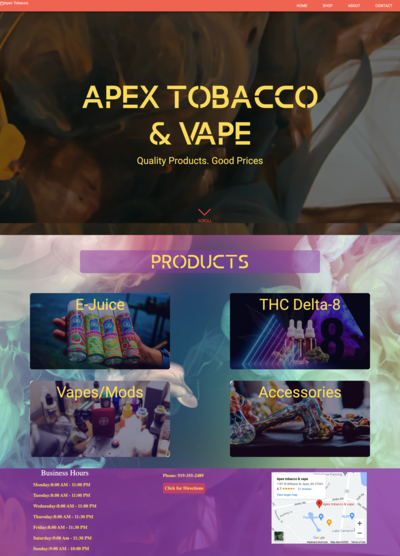
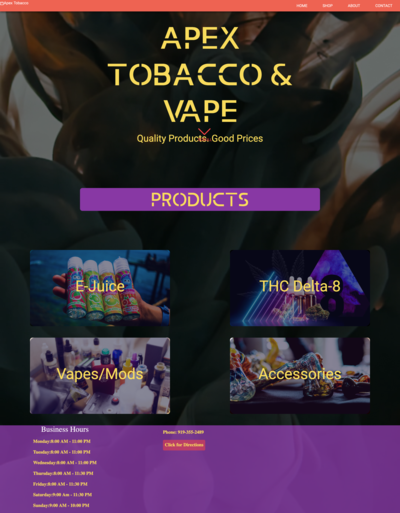
updated project images

diff --git a/src/sections/projects/components/Project.js b/src/sections/projects/components/Project.js
@@ -47,8 +47,6 @@ const StyledProject = styled.div`
 
 
     .project-card-img {
-        width: 400px;
-        height: 600px;
         margin-top: 2em;
         padding: 1em;
     }
